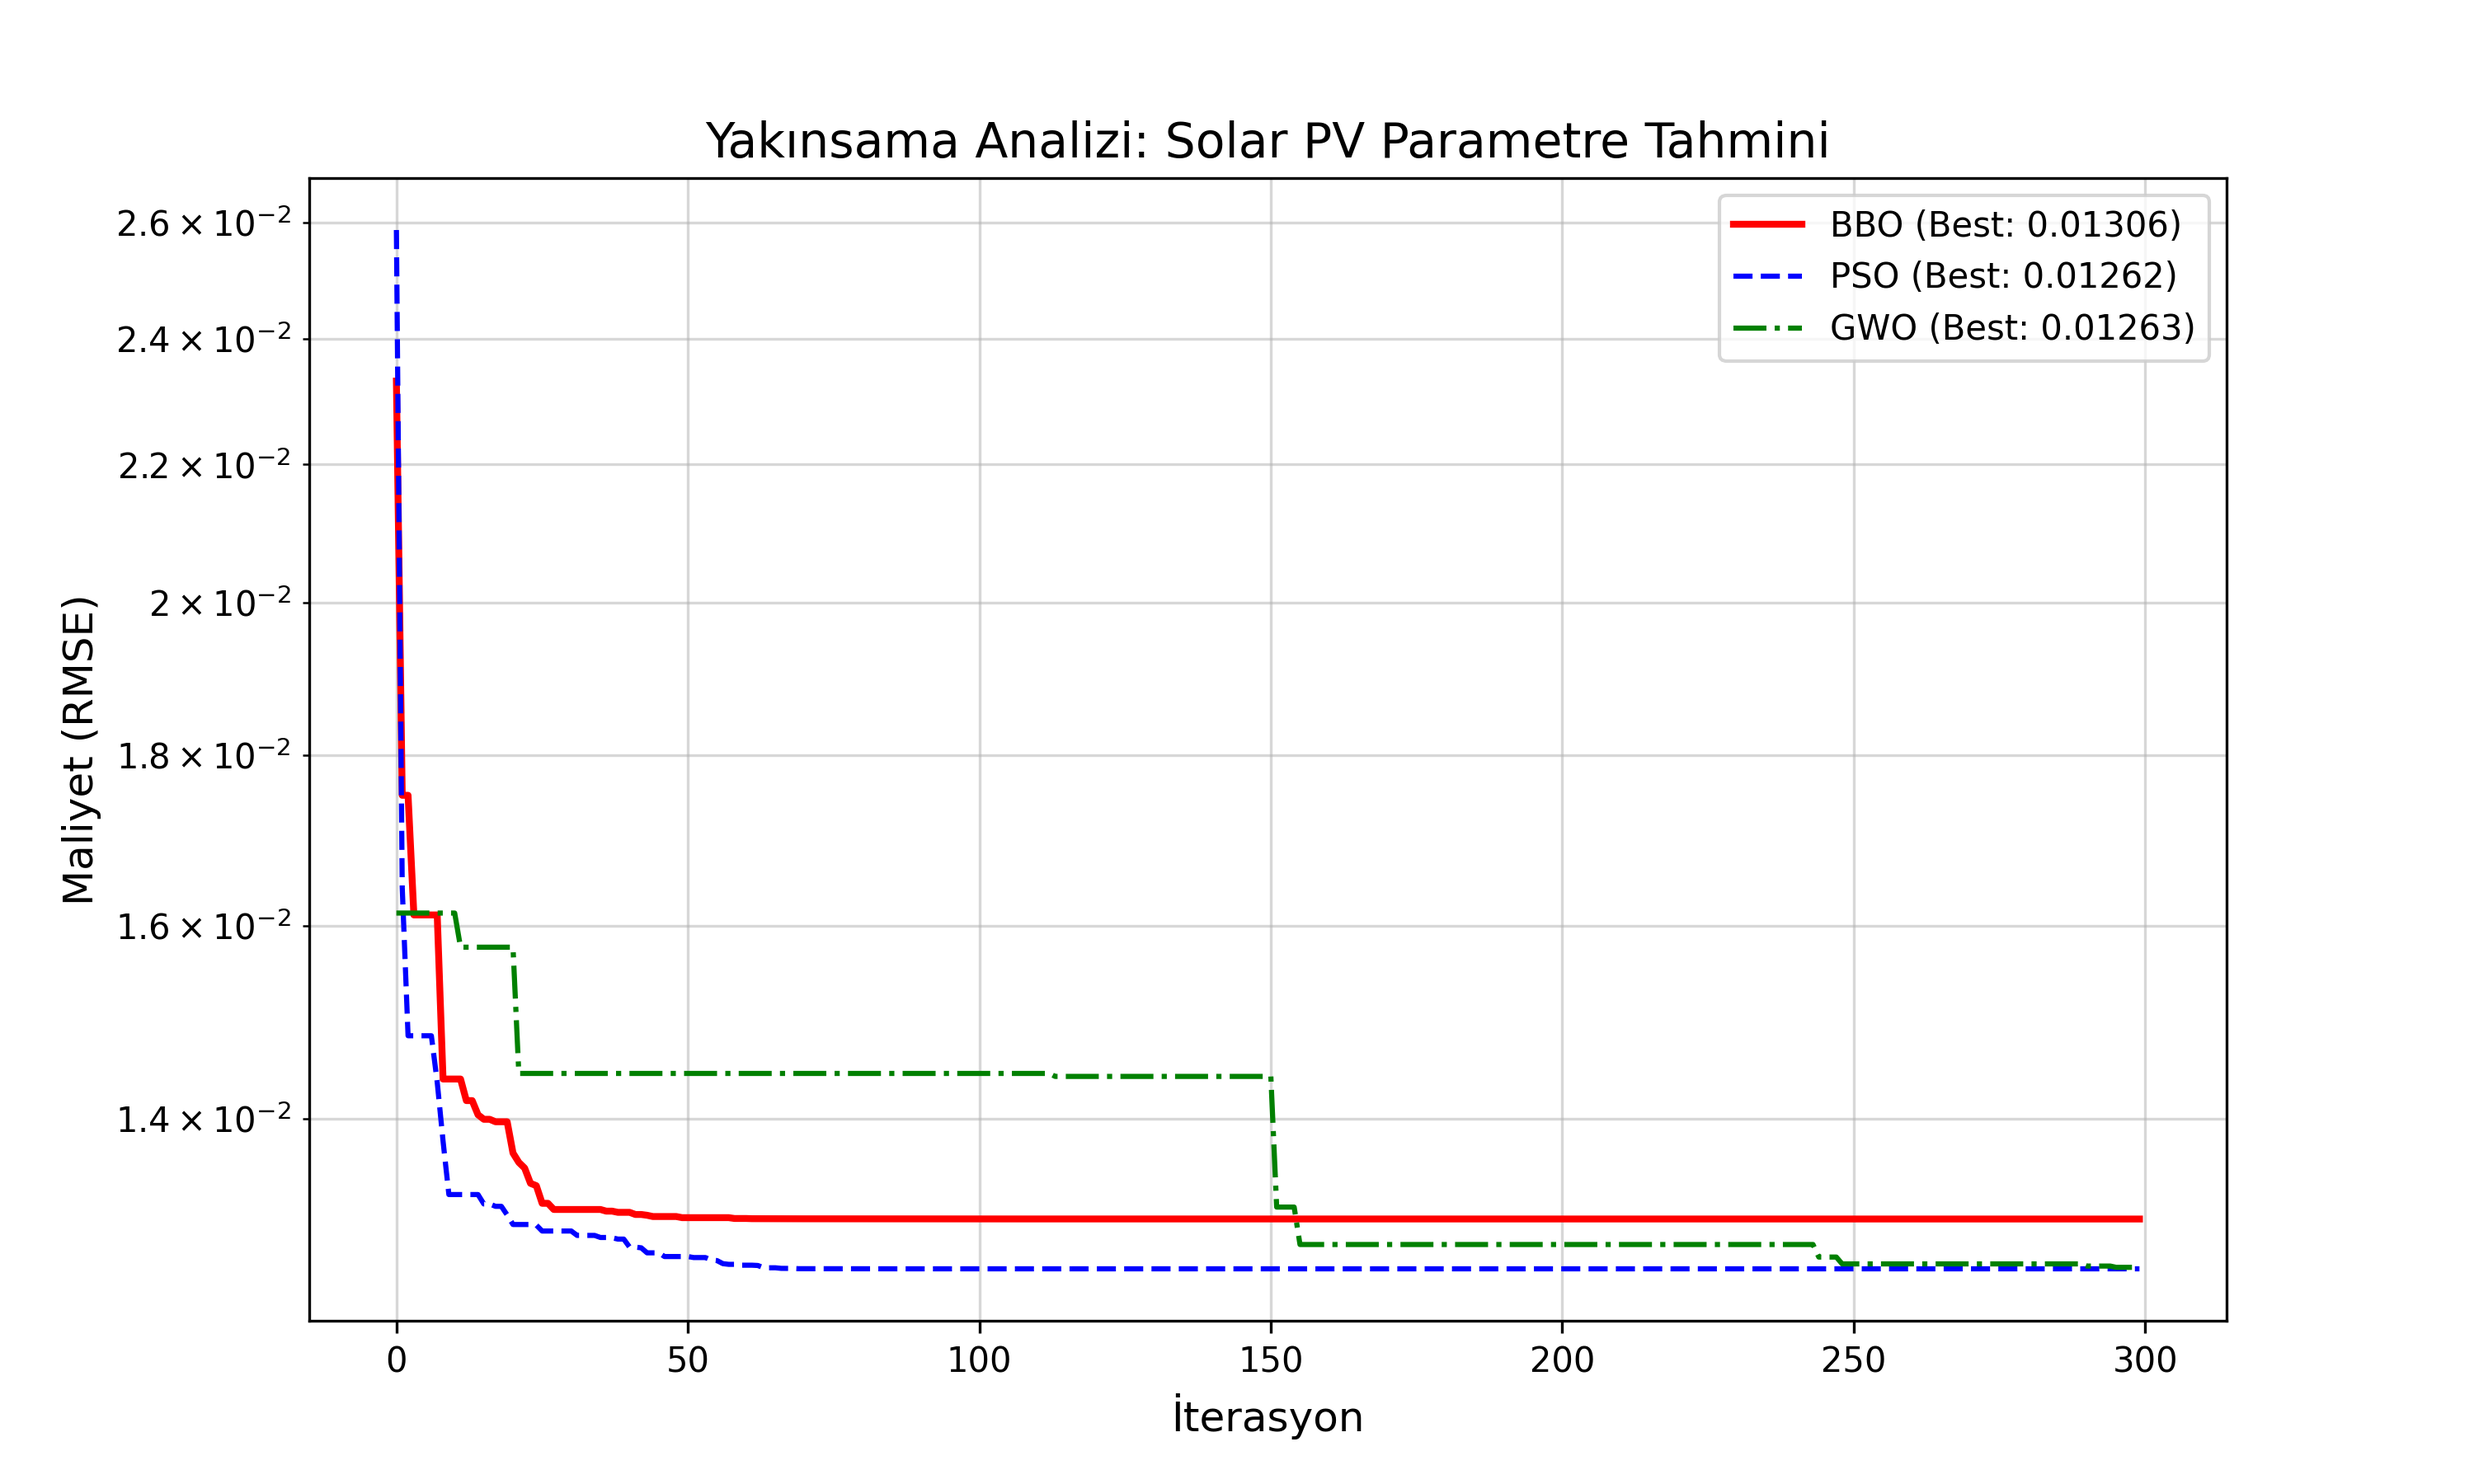
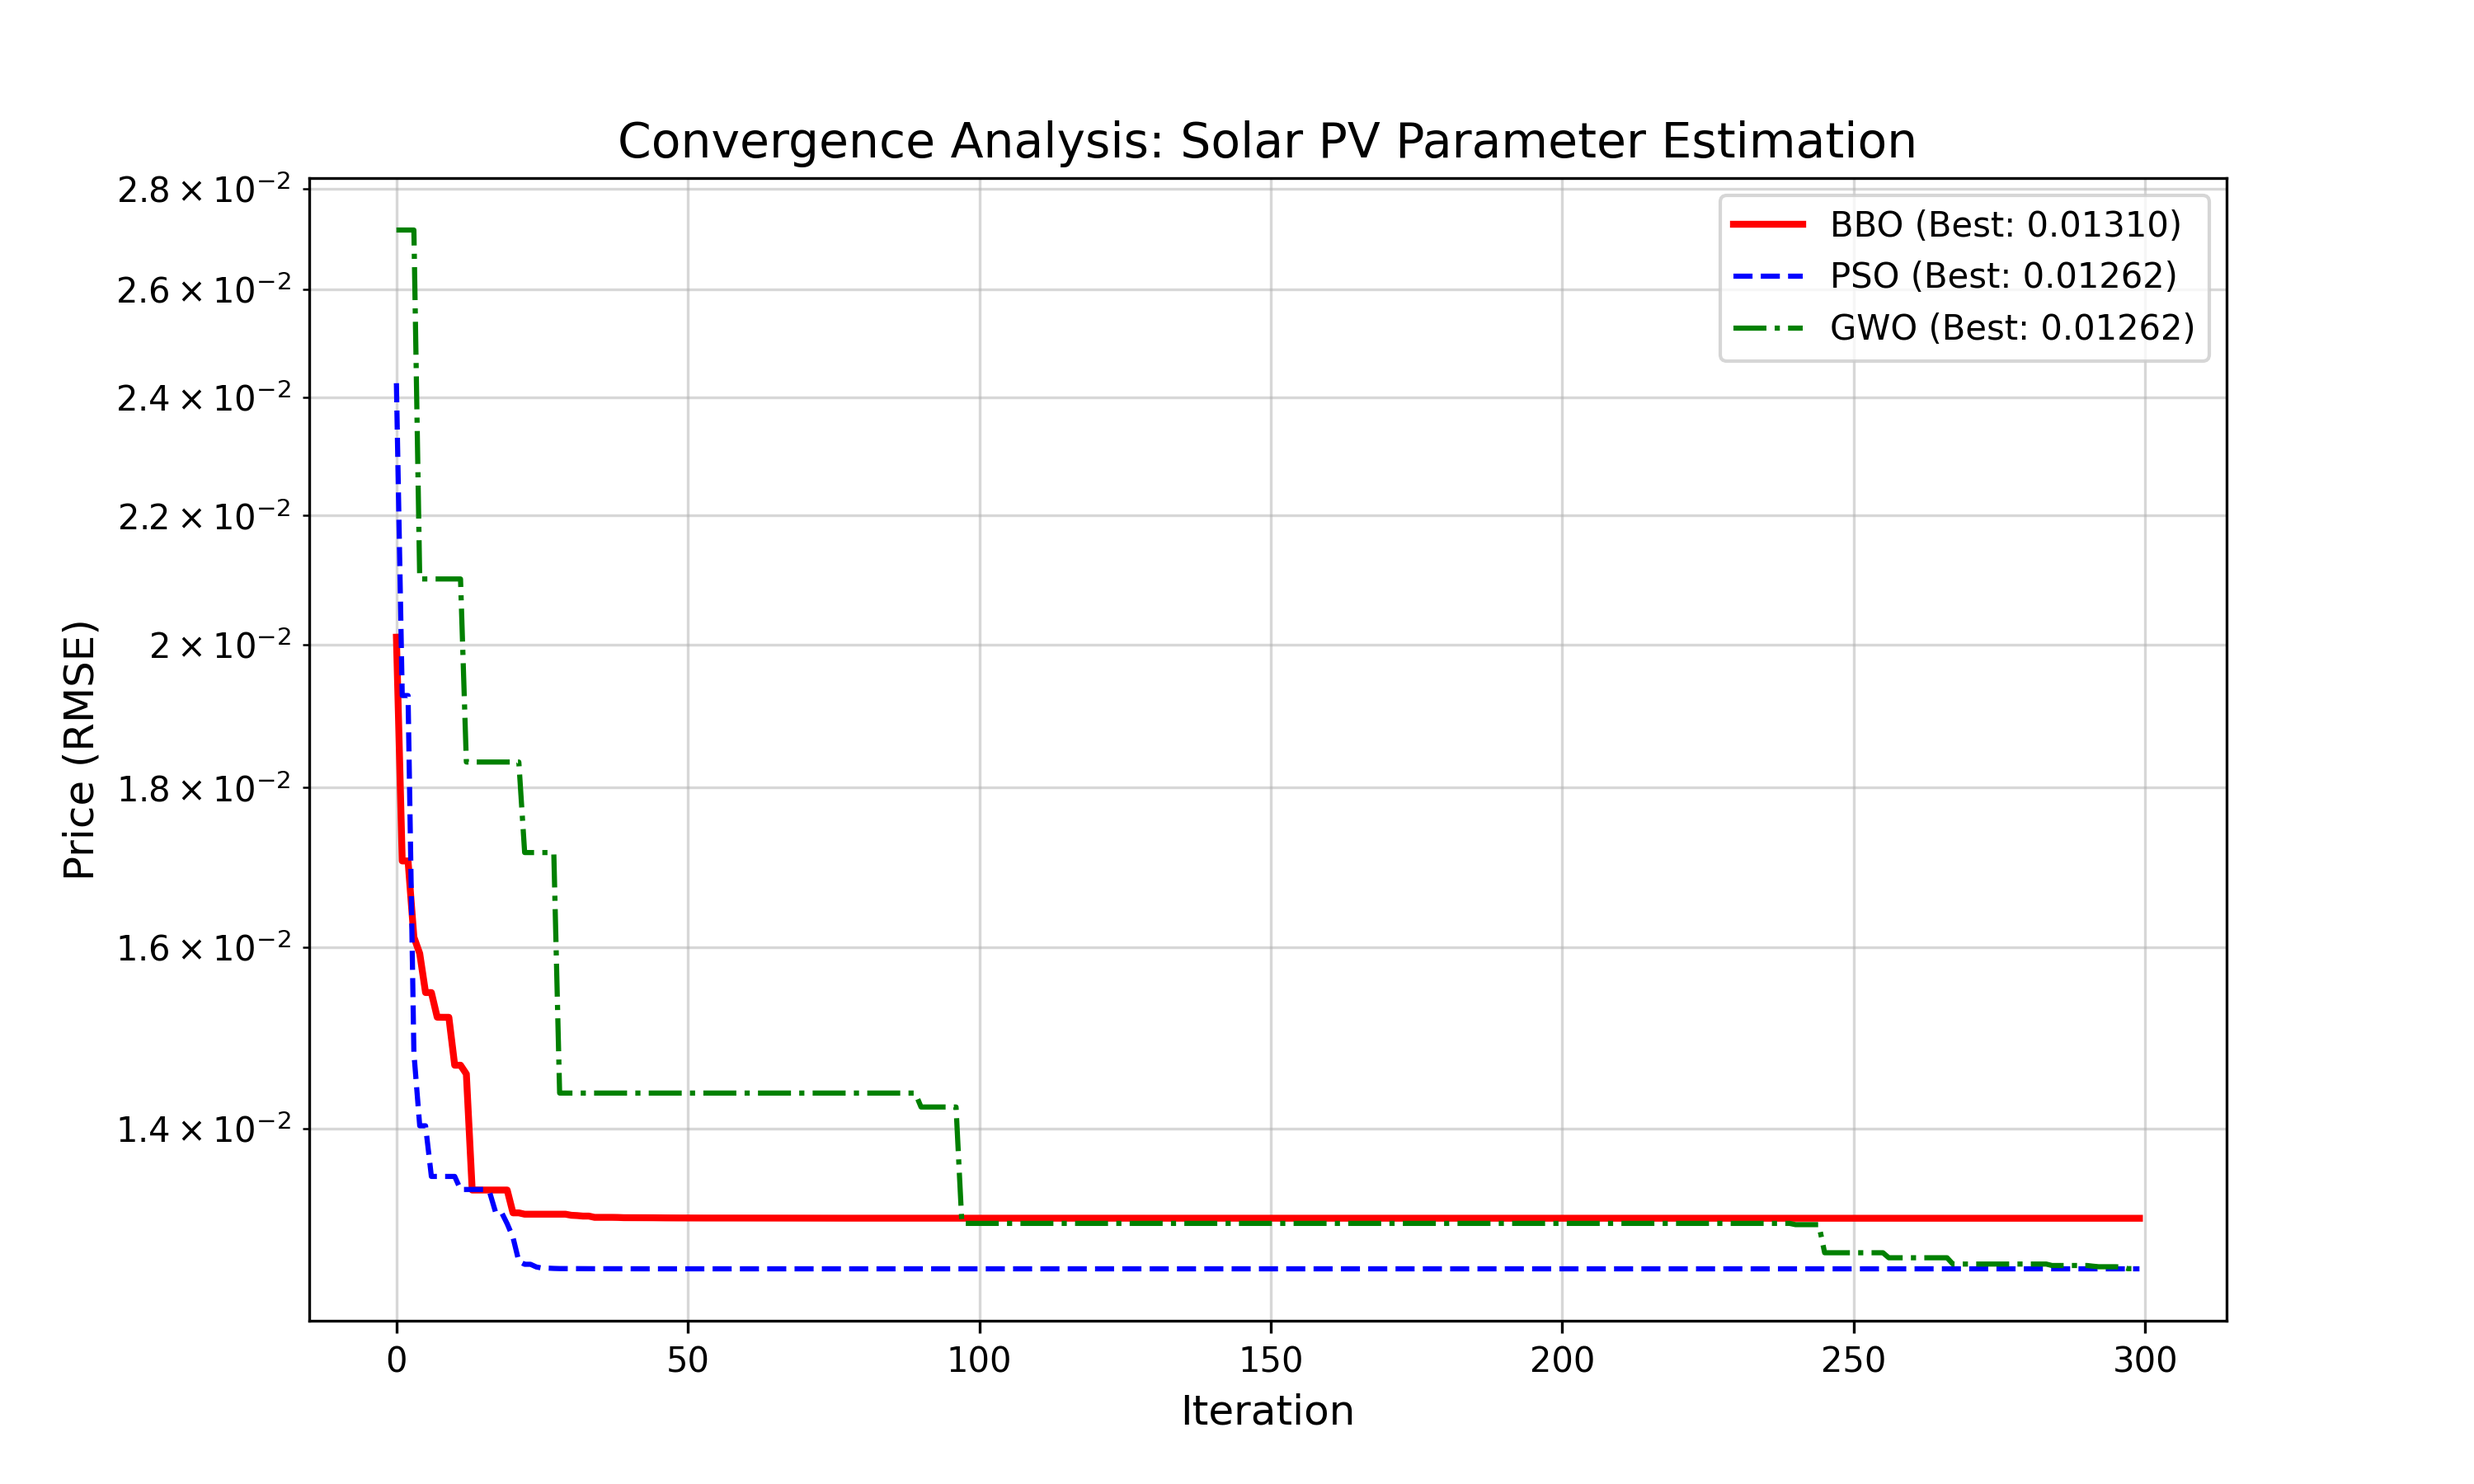
Update code

diff --git a/src/plot_results.py b/src/plot_results.py
@@ -1,33 +1,34 @@
 import numpy as np
 import matplotlib.pyplot as plt
-from benchmark_functions import V_exp, I_exp
+from BBO import BBO
+from benchmark_functions import solar_pv_cost, V_exp, I_exp
 
-# Senin az önce bulduğun "En İyi" sonuçları buraya elle yazıyoruz.
-# (Kodun her seferinde çalışıp saatlerce beklemesine gerek yok, sonucu aldık zaten)
-best_params = [0.761230, 0.0000001896, 0.036394, 14.870099, 1.502699]
+# --- AYARLAR ---
+# Tablodaki sonucuna (0.0129) yakın bir sonuç bulmak için algoritmayı çalıştıracağız.
+bounds = [(0.7, 0.8), (1e-7, 1e-6), (0.01, 0.05), (40, 60), (1.4, 1.6)]
+optimizer = BBO(solar_pv_cost, bounds, pop_size=50, max_iter=200) # Hızlı olsun diye 200 iterasyon
 
-I_ph = best_params[0]
-I_sd = best_params[1]
-R_s  = best_params[2]
-R_sh = best_params[3]
-n    = best_params[4]
+print("🔄 Tabloyla uyumlu grafik üretiliyor...")
+best_sol, best_rmse, _ = optimizer.optimize()
 
-# Fiziksel Sabitler
+# --- PARAMETRELERİ AYIKLA ---
+I_ph, I_sd, R_s, R_sh, n = best_sol
+
+# --- TAHMİN EĞRİSİNİ HESAPLA ---
 k = 1.3806503e-23
 q = 1.60217646e-19
 T = 33 + 273.15
 VT = (n * k * T) / q
 
-# Tahmin Eğrisini Hesapla (Senin Algoritman)
 I_pred = []
 for V in V_exp:
     I_est = I_ph
-    for _ in range(10):
+    for _ in range(10): # Newton-Raphson
         try:
             exp_val = np.exp((V + I_est * R_s) / VT)
         except:
-            exp_val = np.exp(100) # Overflow koruması
-            
+            exp_val = np.exp(100)
+        
         f_val = I_ph - I_sd * (exp_val - 1) - (V + I_est * R_s) / R_sh - I_est
         df_val = -I_sd * (R_s / VT) * exp_val - (R_s / R_sh) - 1
         
@@ -36,23 +37,21 @@ for V in V_exp:
         I_est = I_next
     I_pred.append(I_est)
 
-# --- GRAFİK ÇİZİMİ ---
+# RMSE'yi tekrar hesapla (Kontrol amaçlı)
+final_rmse = np.sqrt(np.mean((np.array(I_pred) - I_exp)**2))
+
+# --- ÇİZİM ---
 plt.figure(figsize=(10, 6))
+plt.scatter(V_exp, I_exp, color='red', label='Experimental Data', zorder=5)
+plt.plot(V_exp, I_pred, color='blue', linewidth=2, label=f'BBO Prediction (RMSE={final_rmse:.4f})')
 
-# 1. Gerçek Veriler (Kırmızı Noktalar)
-plt.scatter(V_exp, I_exp, color='red', label='Gerçek Veri (R.T.C France)', zorder=5)
-
-# 2. Senin BBO Tahminin (Mavi Çizgi)
-plt.plot(V_exp, I_pred, color='blue', linewidth=2, label='BBO Tahmini (RMSE=0.011)')
-
-plt.title('Solar PV Parametre Tahmini: BBO Algoritması', fontsize=14)
-plt.xlabel('Voltaj (V)', fontsize=12)
-plt.ylabel('Akım (A)', fontsize=12)
+plt.title('I-V Characteristic Curve (BBO Optimized)', fontsize=14)
+plt.xlabel('Voltage (V)', fontsize=12)
+plt.ylabel('Current (A)', fontsize=12)
 plt.legend(fontsize=11)
 plt.grid(True, linestyle='--', alpha=0.6)
 
-# Grafiği kaydet
-plt.savefig("Solar_PV_Result.png", dpi=300)
+plt.savefig("Solar_PV_Result_Consistent.png", dpi=300)
 plt.show()
 
-print("Grafik 'Solar_PV_Result.png' olarak kaydedildi.")
+print(f"Bu grafikteki RMSE değeri ({final_rmse:.4f}")

diff --git a/src/compare_algorithms.py b/src/compare_algorithms.py
@@ -7,9 +7,8 @@ from benchmark_functions import solar_pv_cost
 
 # --- AYARLAR ---
 pop_size = 50
-max_iter = 300  # Kıyaslama için 300 yeterli, hızlı olsun
+max_iter = 300  
 
-# Parametre Sınırları (Az önce düzelttiğimiz sınırlar)
 bounds = [
     (0.7, 0.8),    # I_ph
     (1e-7, 1e-6),  # I_sd
@@ -18,7 +17,6 @@ bounds = [
     (1.4, 1.6)     # n
 ]
 
-print("🚀 ALGORİTMALAR YARIŞIYOR...")
 
 # 1. BBO Çalıştır
 print("1. BBO Çalışıyor...")
@@ -45,9 +43,9 @@ plt.plot(bbo_curve, label=f'BBO (Best: {bbo_best:.5f})', linewidth=2, color='red
 plt.plot(pso_curve, label=f'PSO (Best: {pso_best:.5f})', linewidth=1.5, linestyle='--', color='blue')
 plt.plot(gwo_curve, label=f'GWO (Best: {gwo_best:.5f})', linewidth=1.5, linestyle='-.', color='green')
 
-plt.title('Yakınsama Analizi: Solar PV Parametre Tahmini', fontsize=14)
-plt.xlabel('İterasyon', fontsize=12)
-plt.ylabel('Maliyet (RMSE)', fontsize=12)
+plt.title('Convergence Analysis: Solar PV Parameter Estimation', fontsize=14)
+plt.xlabel('Iteration', fontsize=12)
+plt.ylabel('Price (RMSE)', fontsize=12)
 plt.yscale('log') # Logaritmik ölçek farkları daha iyi gösterir
 plt.legend()
 plt.grid(True, which="both", ls="-", alpha=0.5)

diff --git a/src/collect_statistics.py b/src/collect_statistics.py
@@ -23,7 +23,7 @@ algorithms = {
 
 results_table = []
 
-print(f"📊 İstatistik Toplama Başladı ({NUM_RUNS} tur)... Kahveni al, bu biraz sürebilir.")
+print(f"📊 İstatistik Toplama Başladı ({NUM_RUNS} tur)...")
 
 for name, AlgoClass in algorithms.items():
     print(f"\n--- {name} Koşuluyor ---")
@@ -49,7 +49,7 @@ for name, AlgoClass in algorithms.items():
         "Best (En İyi)": f"{best_val:.6f}",
         "Worst (En Kötü)": f"{worst_val:.6f}",
         "Mean (Ortalama)": f"{mean_val:.6f}",
-        "Std Dev (Sapma)": f"{std_val:.2e}" # Bilimsel gösterim (örn: 1.2e-5) daha havalı durur
+        "Std Dev (Sapma)": f"{std_val:.2e}" 
     })
     print(f"\nTamamlandı. Ortalama Hata: {mean_val:.6f}")
 
